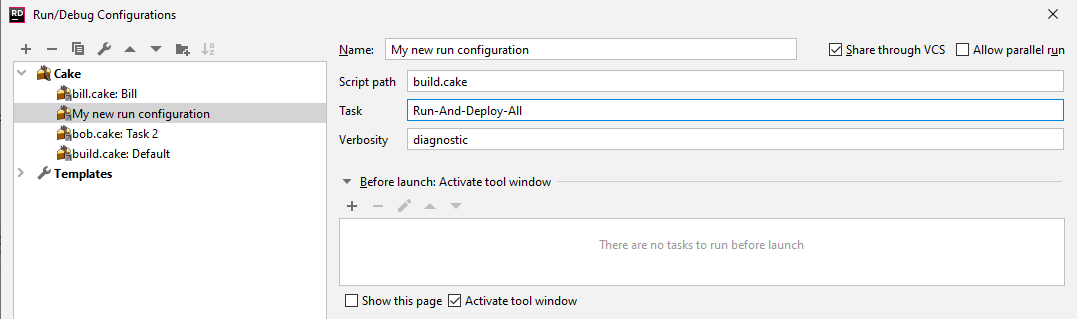
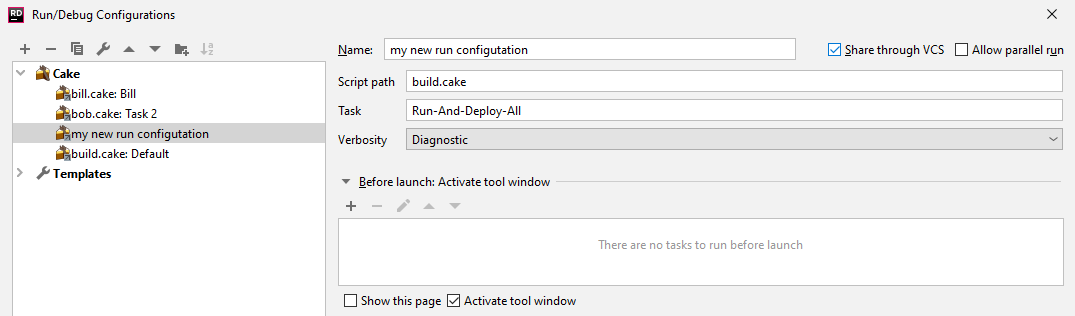
(GH-17) Introduced a custom UI-component
VerbosityComboBox, to show and let users select a verbosity.
This component replaced the standard comboBox in general settings
and the text field in the run configurations editor.

diff --git a/rider/src/main/kotlin/net/cakebuild/shared/ui/VerbosityComboBox.kt b/rider/src/main/kotlin/net/cakebuild/shared/ui/VerbosityComboBox.kt
@@ -1,0 +1,41 @@
+package net.cakebuild.shared.ui
+
+import com.intellij.ide.ui.laf.darcula.DarculaUIUtil
+import javax.swing.JComboBox
+
+class VerbosityComboBox : JComboBox<String>() {
+
+    private val normalValue = "Normal"
+
+    init {
+        putClientProperty(DarculaUIUtil.COMPACT_PROPERTY, true)
+        addItem("Quiet")
+        addItem("Minimal")
+        addItem(normalValue)
+        addItem("Verbose")
+        addItem("Diagnostic")
+    }
+
+    fun getVerbosity(): String {
+        return ((selectedItem ?: normalValue) as String).toLowerCase()
+    }
+
+    fun setVerbosity(verbosity: String?) {
+        val value = verbosity ?: normalValue
+        var item: Any? = null
+        val count: Int = itemCount
+        for (i in 0 until count) {
+            val o: String = getItemAt(i)
+            if (value.equals(o, ignoreCase = true)) {
+                item = o
+                break
+            }
+        }
+        if (null == item) {
+            // add new..
+            addItem(value)
+            item = value
+        }
+        selectedItem = item
+    }
+}

diff --git a/rider/src/main/java/net/cakebuild/settings/CakeGeneralSettingsEditor.java b/rider/src/main/java/net/cakebuild/settings/CakeGeneralSettingsEditor.java
@@ -2,9 +2,12 @@ package net.cakebuild.settings;
 
 import com.intellij.ide.ui.laf.darcula.DarculaUIUtil;
 import net.cakebuild.shared.ui.RegexInputVerifier;
+import net.cakebuild.shared.ui.VerbosityComboBox;
 
-import javax.swing.*;
-import java.util.Objects;
+import javax.swing.JComboBox;
+import javax.swing.JLabel;
+import javax.swing.JPanel;
+import javax.swing.JTextField;
 
 public class CakeGeneralSettingsEditor {
 
@@ -20,13 +23,6 @@ public class CakeGeneralSettingsEditor {
         verifier.setOnValidationError((s) -> { setValidationError(s); return null; });
         verifier.setOnValidationSuccess(() -> { setValidationError(null); return null; });
         taskRegexField.setInputVerifier(verifier);
-
-        verbosityBox.putClientProperty(DarculaUIUtil.COMPACT_PROPERTY, Boolean.TRUE);
-        verbosityBox.addItem("Quiet");
-        verbosityBox.addItem("Minimal");
-        verbosityBox.addItem("Normal");
-        verbosityBox.addItem("Verbose");
-        verbosityBox.addItem("Diagnostic");
     }
 
     public JPanel getContent() { return myPanel; }
@@ -35,26 +31,8 @@ public class CakeGeneralSettingsEditor {
 
     public JTextField getTaskRegexField() { return taskRegexField; }
 
-    public String getVerbosity() { return ((String) Objects.requireNonNull(verbosityBox.getSelectedItem())).toLowerCase(); }
-    public void setVerbosity(String value) {
-        Object item = null;
-        int count = verbosityBox.getItemCount();
-        for(int i=0; i<count; i++){
-            String o = verbosityBox.getItemAt(i);
-            if(value.equals(o.toLowerCase())){
-                item = o;
-                break;
-            }
-        }
-
-        if(null == item) {
-            // add new..
-            verbosityBox.addItem(value);
-            item = value;
-        }
-
-        verbosityBox.setSelectedItem(item);
-    }
+    public String getVerbosity() { return ((VerbosityComboBox)verbosityBox).getVerbosity(); }
+    public void setVerbosity(String value) { ((VerbosityComboBox)verbosityBox).setVerbosity(value); }
 
     private void setValidationError(String error) {
         if(error == null) {
@@ -63,5 +41,9 @@ public class CakeGeneralSettingsEditor {
         }
 
         validationErrors.setText(error);
+    }
+
+    private void createUIComponents() {
+        verbosityBox = new VerbosityComboBox();
     }
 }

diff --git a/rider/src/main/java/net/cakebuild/run/CakeConfigurationEditor.java b/rider/src/main/java/net/cakebuild/run/CakeConfigurationEditor.java
@@ -2,15 +2,19 @@ package net.cakebuild.run;
 
 import com.intellij.openapi.options.ConfigurationException;
 import com.intellij.openapi.options.SettingsEditor;
+import net.cakebuild.shared.ui.VerbosityComboBox;
 import org.jetbrains.annotations.NotNull;
 
-import javax.swing.*;
+import javax.swing.JComboBox;
+import javax.swing.JComponent;
+import javax.swing.JPanel;
+import javax.swing.JTextField;
 
 public class CakeConfigurationEditor extends SettingsEditor<CakeConfiguration> {
     private JPanel myPanel;
     private JTextField scriptPathField;
     private JTextField taskField;
-    private JTextField verbosityField;
+    private JComboBox<String> verbosityBox;
 
     @Override
     protected void resetEditorFrom(@NotNull CakeConfiguration configuration) {
@@ -20,7 +24,7 @@ public class CakeConfigurationEditor extends SettingsEditor<CakeConfiguration> {
         }
         scriptPathField.setText(state.getScriptPath());
         taskField.setText(state.getTaskName());
-        verbosityField.setText(state.getVerbosity());
+        ((VerbosityComboBox)verbosityBox).setVerbosity(state.getVerbosity());
     }
 
     @Override
@@ -32,12 +36,16 @@ public class CakeConfigurationEditor extends SettingsEditor<CakeConfiguration> {
 
         state.setScriptPath(scriptPathField.getText());
         state.setTaskName(taskField.getText());
-        state.setVerbosity(verbosityField.getText());
+        state.setVerbosity(((VerbosityComboBox)verbosityBox).getVerbosity());
     }
 
     @NotNull
     @Override
     protected JComponent createEditor() {
         return myPanel;
+    }
+
+    private void createUIComponents() {
+        verbosityBox = new VerbosityComboBox();
     }
 }
